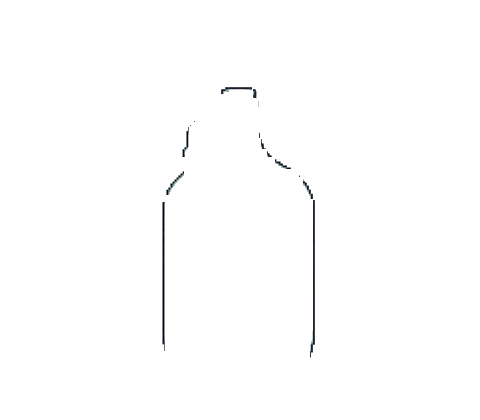
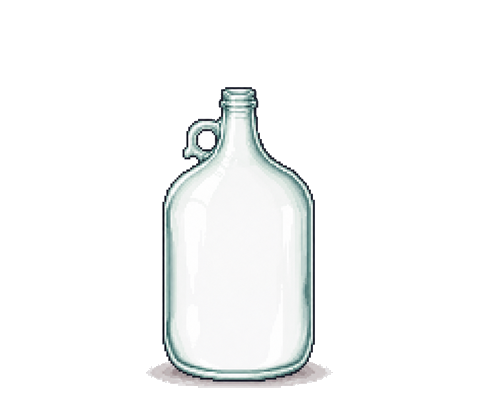
Preserve the glass art: composite it over the liquid with multiply
The previous pipeline carved the interior cavity out of the sprite,
which on a clear-glass jug deleted nearly all the art (tint, shoulder
highlights, ribs, neck, shading) since clear glass reads as near-white
and got classified as "interior". Only the dark outline survived, so
the vessel looked like a faint dashed line around the mead.

New approach keeps the ENTIRE glass and treats it as a transmission
filter:

process_vessels.py
- Sprite now keeps all glass pixels; only the exterior background and
  enclosed background pockets (the jug handle's hole) are made
  transparent. Interior is NOT carved.
- Emits the art's background colour in meta.bg for the base layer.

SpriteVessel.tsx
- Build a base = the silhouette filled with the art's bg colour, with
  the liquid (gradient, foam, sediment, specular) painted into the
  cavity (clipped by the interior mask).
- Composite the glass sprite over that base with globalCompositeOperation
  = "multiply". Where the glass is clear/near-white the mead shows
  through; where it's tinted/ribbed/edged/shaded the detail darkens and
  tints the mead exactly like real glass; relative highlights still read
  as gloss. The empty headspace reproduces the original clear-glass art.
- Cork + airlock drawn on top; the still image is composited once and
  only the bubbles + airlock bubble animate.

Verified with Playwright: 5-gal (orange blossom) and 1-gal (clover) at
primary, plus empty state — full glass art preserved with dynamic mead
[…]

Changed region(s): [[0.3125, 0.2167, 0.6875, 0.9286]]

diff --git a/web/components/SpriteVessel.tsx b/web/components/SpriteVessel.tsx
@@ -23,6 +23,7 @@ interface Meta {
   w: number;
   h: number;
   headroom?: number;
+  bg?: [number, number, number];
   neck: { cx: number; y_top: number; y_bottom: number; width: number };
   interior: { x: number; y: number; w: number; h: number };
   fill?: { top: number; bottom: number; x: number; w: number };
@@ -188,82 +189,105 @@ export function SpriteVessel({ vessel, honeyType, liters, phase, size = 200, ani
     const liquidH = Math.round(fill * fillRange);
     const liquidTop = intY1 - liquidH;
 
-    // ----- liquid layer (offscreen, smooth, then clipped to interior mask) -----
-    const bg = document.createElement("canvas");
-    bg.width = meta.w; bg.height = meta.h;
-    const b = bg.getContext("2d")!;
-    b.imageSmoothingEnabled = true;
+    const bgRGB = meta.bg ?? [253, 253, 253];
+    const bgHex = `rgb(${bgRGB[0]},${bgRGB[1]},${bgRGB[2]})`;
+
+    // ----- 1. base: the silhouette filled with the art's background colour,
+    // with the liquid painted into the cavity. Multiplying the glass over this
+    // reproduces the original art everywhere the glass is "clear", and shows the
+    // mead through it where there's liquid. -----
+    const base = document.createElement("canvas");
+    base.width = meta.w; base.height = meta.h;
+    const bx = base.getContext("2d")!;
+    bx.imageSmoothingEnabled = true;
+    // silhouette shape from the glass alpha, recoloured to the bg
+    bx.drawImage(sprite, 0, 0);
+    bx.globalCompositeOperation = "source-in";
+    bx.fillStyle = bgHex;
+    bx.fillRect(0, 0, meta.w, meta.h);
+    bx.globalCompositeOperation = "source-over";
 
     if (hasLiquid) {
-      // 1. base vertical gradient — luminous, only slightly deeper at the bottom
-      const vg = b.createLinearGradient(0, liquidTop, 0, intY1);
+      // liquid drawn on its own layer, then clipped to the cavity mask
+      const liq = document.createElement("canvas");
+      liq.width = meta.w; liq.height = meta.h;
+      const l = liq.getContext("2d")!;
+      l.imageSmoothingEnabled = true;
+
+      const vg = l.createLinearGradient(0, liquidTop, 0, intY1);
       vg.addColorStop(0, pal.top);
       vg.addColorStop(0.45, pal.body);
       vg.addColorStop(1, pal.deep);
-      b.fillStyle = vg;
-      b.fillRect(intX - 4, liquidTop, intW + 8, liquidH + 4);
+      l.fillStyle = vg;
+      l.fillRect(intX - 6, liquidTop, intW + 12, liquidH + 6);
 
-      // 2. horizontal roundness — light from upper-left, edges fall off
-      const hg = b.createLinearGradient(intX, 0, intX + intW, 0);
-      hg.addColorStop(0.0, "rgba(60,30,0,0.20)");
+      // horizontal roundness — light from upper-left, edges fall off
+      const hg = l.createLinearGradient(intX, 0, intX + intW, 0);
+      hg.addColorStop(0.0, "rgba(60,30,0,0.18)");
       hg.addColorStop(0.16, "rgba(0,0,0,0)");
-      hg.addColorStop(0.34, "rgba(255,250,235,0.16)");
+      hg.addColorStop(0.34, "rgba(255,250,235,0.14)");
       hg.addColorStop(0.6, "rgba(0,0,0,0)");
-      hg.addColorStop(1.0, "rgba(50,25,0,0.26)");
-      b.fillStyle = hg;
-      b.fillRect(intX - 4, liquidTop, intW + 8, liquidH + 4);
+      hg.addColorStop(1.0, "rgba(50,25,0,0.24)");
+      l.fillStyle = hg;
+      l.fillRect(intX - 6, liquidTop, intW + 12, liquidH + 6);
 
-      // 3. soft specular bloom on the upper-left of the body
+      // soft specular bloom on the upper-left
       const cxh = intX + intW * 0.34;
       const cyh = liquidTop + liquidH * 0.26;
-      const rad = b.createRadialGradient(cxh, cyh, 2, cxh, cyh, intW * 0.5);
-      rad.addColorStop(0, "rgba(255,252,240,0.22)");
+      const rad = l.createRadialGradient(cxh, cyh, 2, cxh, cyh, intW * 0.5);
+      rad.addColorStop(0, "rgba(255,252,240,0.2)");
       rad.addColorStop(1, "rgba(255,252,240,0)");
-      b.fillStyle = rad;
-      b.fillRect(intX - 4, liquidTop, intW + 8, liquidH * 0.7);
+      l.fillStyle = rad;
+      l.fillRect(intX - 6, liquidTop, intW + 12, liquidH * 0.7);
 
-      // 4. sediment — a soft band fading upward, never gritty
+      // sediment — soft band fading upward
       const sedH = Math.round(viz.sediment * liquidH);
       if (sedH > 2) {
-        const sg = b.createLinearGradient(0, intY1 - sedH, 0, intY1);
+        const sg = l.createLinearGradient(0, intY1 - sedH, 0, intY1);
         sg.addColorStop(0, "rgba(0,0,0,0)");
         sg.addColorStop(1, pal.sed);
-        b.fillStyle = sg;
-        b.fillRect(intX - 4, intY1 - sedH, intW + 8, sedH + 4);
+        l.fillStyle = sg;
+        l.fillRect(intX - 6, intY1 - sedH, intW + 12, sedH + 6);
       }
 
-      // 5. krausen foam + meniscus at the surface
-      const foamH = Math.max(hasLiquid ? 2 : 0, Math.round(viz.foam * liquidH));
+      // krausen foam + meniscus
+      const foamH = Math.max(2, Math.round(viz.foam * liquidH));
       if (foamH >= 2) {
-        const fg = b.createLinearGradient(0, liquidTop, 0, liquidTop + foamH);
+        const fg = l.createLinearGradient(0, liquidTop, 0, liquidTop + foamH);
         fg.addColorStop(0, pal.foamHi);
         fg.addColorStop(1, pal.foam);
-        b.fillStyle = fg;
-        b.fillRect(intX - 4, liquidTop, intW + 8, foamH);
-        // soft shadow the foam casts on the liquid below
-        b.fillStyle = "rgba(60,35,5,0.12)";
-        b.fillRect(intX - 4, liquidTop + foamH, intW + 8, 2);
+        l.fillStyle = fg;
+        l.fillRect(intX - 6, liquidTop, intW + 12, foamH);
+        l.fillStyle = "rgba(60,35,5,0.12)";
+        l.fillRect(intX - 6, liquidTop + foamH, intW + 12, 2);
       }
-      // bright meniscus line on top of the liquid/foam
-      b.fillStyle = "rgba(255,253,245,0.55)";
-      b.fillRect(intX - 4, liquidTop, intW + 8, 1.5);
+      l.fillStyle = "rgba(255,253,245,0.5)";
+      l.fillRect(intX - 6, liquidTop, intW + 12, 1.5);
 
-      // clip everything to the interior cavity
-      b.globalCompositeOperation = "destination-in";
-      b.drawImage(mask, 0, 0);
-      b.globalCompositeOperation = "source-over";
+      // clip the liquid to the cavity, then lay it over the cream base
+      l.globalCompositeOperation = "destination-in";
+      l.drawImage(mask, 0, 0);
+      bx.drawImage(liq, 0, 0);
     }
 
-    const drawStopper = () => drawCorkAndAirlock(ctx, meta);
+    // ----- 2. static composite: multiply the glass art over the base, then the
+    // procedural cork + airlock on top. Built once; only bubbles animate. -----
+    const still = document.createElement("canvas");
+    still.width = meta.w; still.height = meta.h;
+    const sx = still.getContext("2d")!;
+    sx.imageSmoothingEnabled = true;
+    sx.drawImage(base, 0, 0);
+    sx.globalCompositeOperation = "multiply";
+    sx.drawImage(sprite, 0, 0);
+    sx.globalCompositeOperation = "source-over";
+    drawCorkAndAirlock(sx, meta);
 
     const drawFrame = (t: number) => {
       ctx.clearRect(0, 0, meta.w, meta.h);
-      ctx.drawImage(bg, 0, 0);          // liquid (behind glass)
-      ctx.drawImage(sprite, 0, 0);      // the glass shell
+      ctx.drawImage(still, 0, 0);
       if (animated && hasLiquid && viz.bubbles > 0) {
         drawBubbles(ctx, intX, intW, liquidTop, intY1, viz, vessel, honeyType, phase, t);
       }
-      drawStopper();
       if (animated && viz.airlock && hasLiquid) drawAirlockBubble(ctx, meta, t);
     };
 

diff --git a/agents/scripts/process_vessels.py b/agents/scripts/process_vessels.py
@@ -2,9 +2,12 @@
 
 For each entry in JOBS:
   in:  web/public/vessels/raw/<source filename>
-  out: web/public/vessels/<kind>.png           - RGBA sprite, background transparent
-       web/public/vessels/<kind>.mask.png      - 8-bit alpha, interior cavity only
-       web/public/vessels/<kind>.meta.json     - neck position, content bbox, scale
+  out: web/public/vessels/<kind>.png           - RGBA glass shell (full art kept;
+                                                  only background + handle hole
+                                                  are transparent). Composited
+                                                  over the liquid with MULTIPLY.
+       web/public/vessels/<kind>.mask.png      - interior cavity (clips liquid)
+       web/public/vessels/<kind>.meta.json     - bg colour, neck, interior, fill
 
 The sprite + mask are downsampled to MAX_W wide so they don't bloat the bundle.
 SpriteVessel.tsx reads these at runtime.
@@ -18,6 +21,7 @@ import numpy as np
 from PIL import Image
 from scipy.ndimage import (
     binary_closing,
+    binary_dilation,
     binary_fill_holes,
     label as cc_label,
 )
@@ -92,9 +96,21 @@ def process(src_path: Path, kind: str) -> dict:
         interior_mask = (interior_labeled == sizes.argmax())
         interior_mask = binary_fill_holes(interior_mask)
 
-    # Build RGBA sprite: vessel pixels keep their colour; BG becomes transparent.
-    # Interior cavity is also made transparent so the liquid layer shows through.
-    alpha = np.where(vessel_mask & ~interior_mask, 255, 0).astype(np.uint8)
+    # Build RGBA sprite: KEEP the entire glass (tint, highlights, ribs, shading)
+    # so it can be composited over the liquid with a multiply blend. Only the
+    # exterior background and any enclosed background pockets (e.g. the hole in
+    # the jug handle) become transparent. We do NOT carve the interior cavity —
+    # carving it was what destroyed the glass art.
+    enclosed_bg = (dist < 38) & vessel_mask  # cream pixels inside the silhouette
+    holes = enclosed_bg & ~binary_dilation(interior_mask, iterations=5)
+    # keep only reasonably-sized holes (the handle loop), drop stray speckle
+    holes_lbl, _ = cc_label(holes)
+    hsizes = np.bincount(holes_lbl.ravel())
+    hsizes[0] = 0
+    keep_holes = np.zeros_like(holes)
+    for lab in np.where(hsizes > 40)[0]:
+        keep_holes |= (holes_lbl == lab)
+    alpha = np.where(vessel_mask & ~keep_holes, 255, 0).astype(np.uint8)
     rgba = np.concatenate([arr, alpha[..., None]], axis=2)
 
     # Detect neck opening: scan from the top of the vessel mask, find the
@@ -175,6 +191,7 @@ def process(src_path: Path, kind: str) -> dict:
         "w": w,
         "h": h + HEADROOM,
         "headroom": HEADROOM,
+        "bg": [int(bg[0]), int(bg[1]), int(bg[2])],
         "neck": {
             "cx": neck_cx,
             "y_top": neck_top + HEADROOM,
